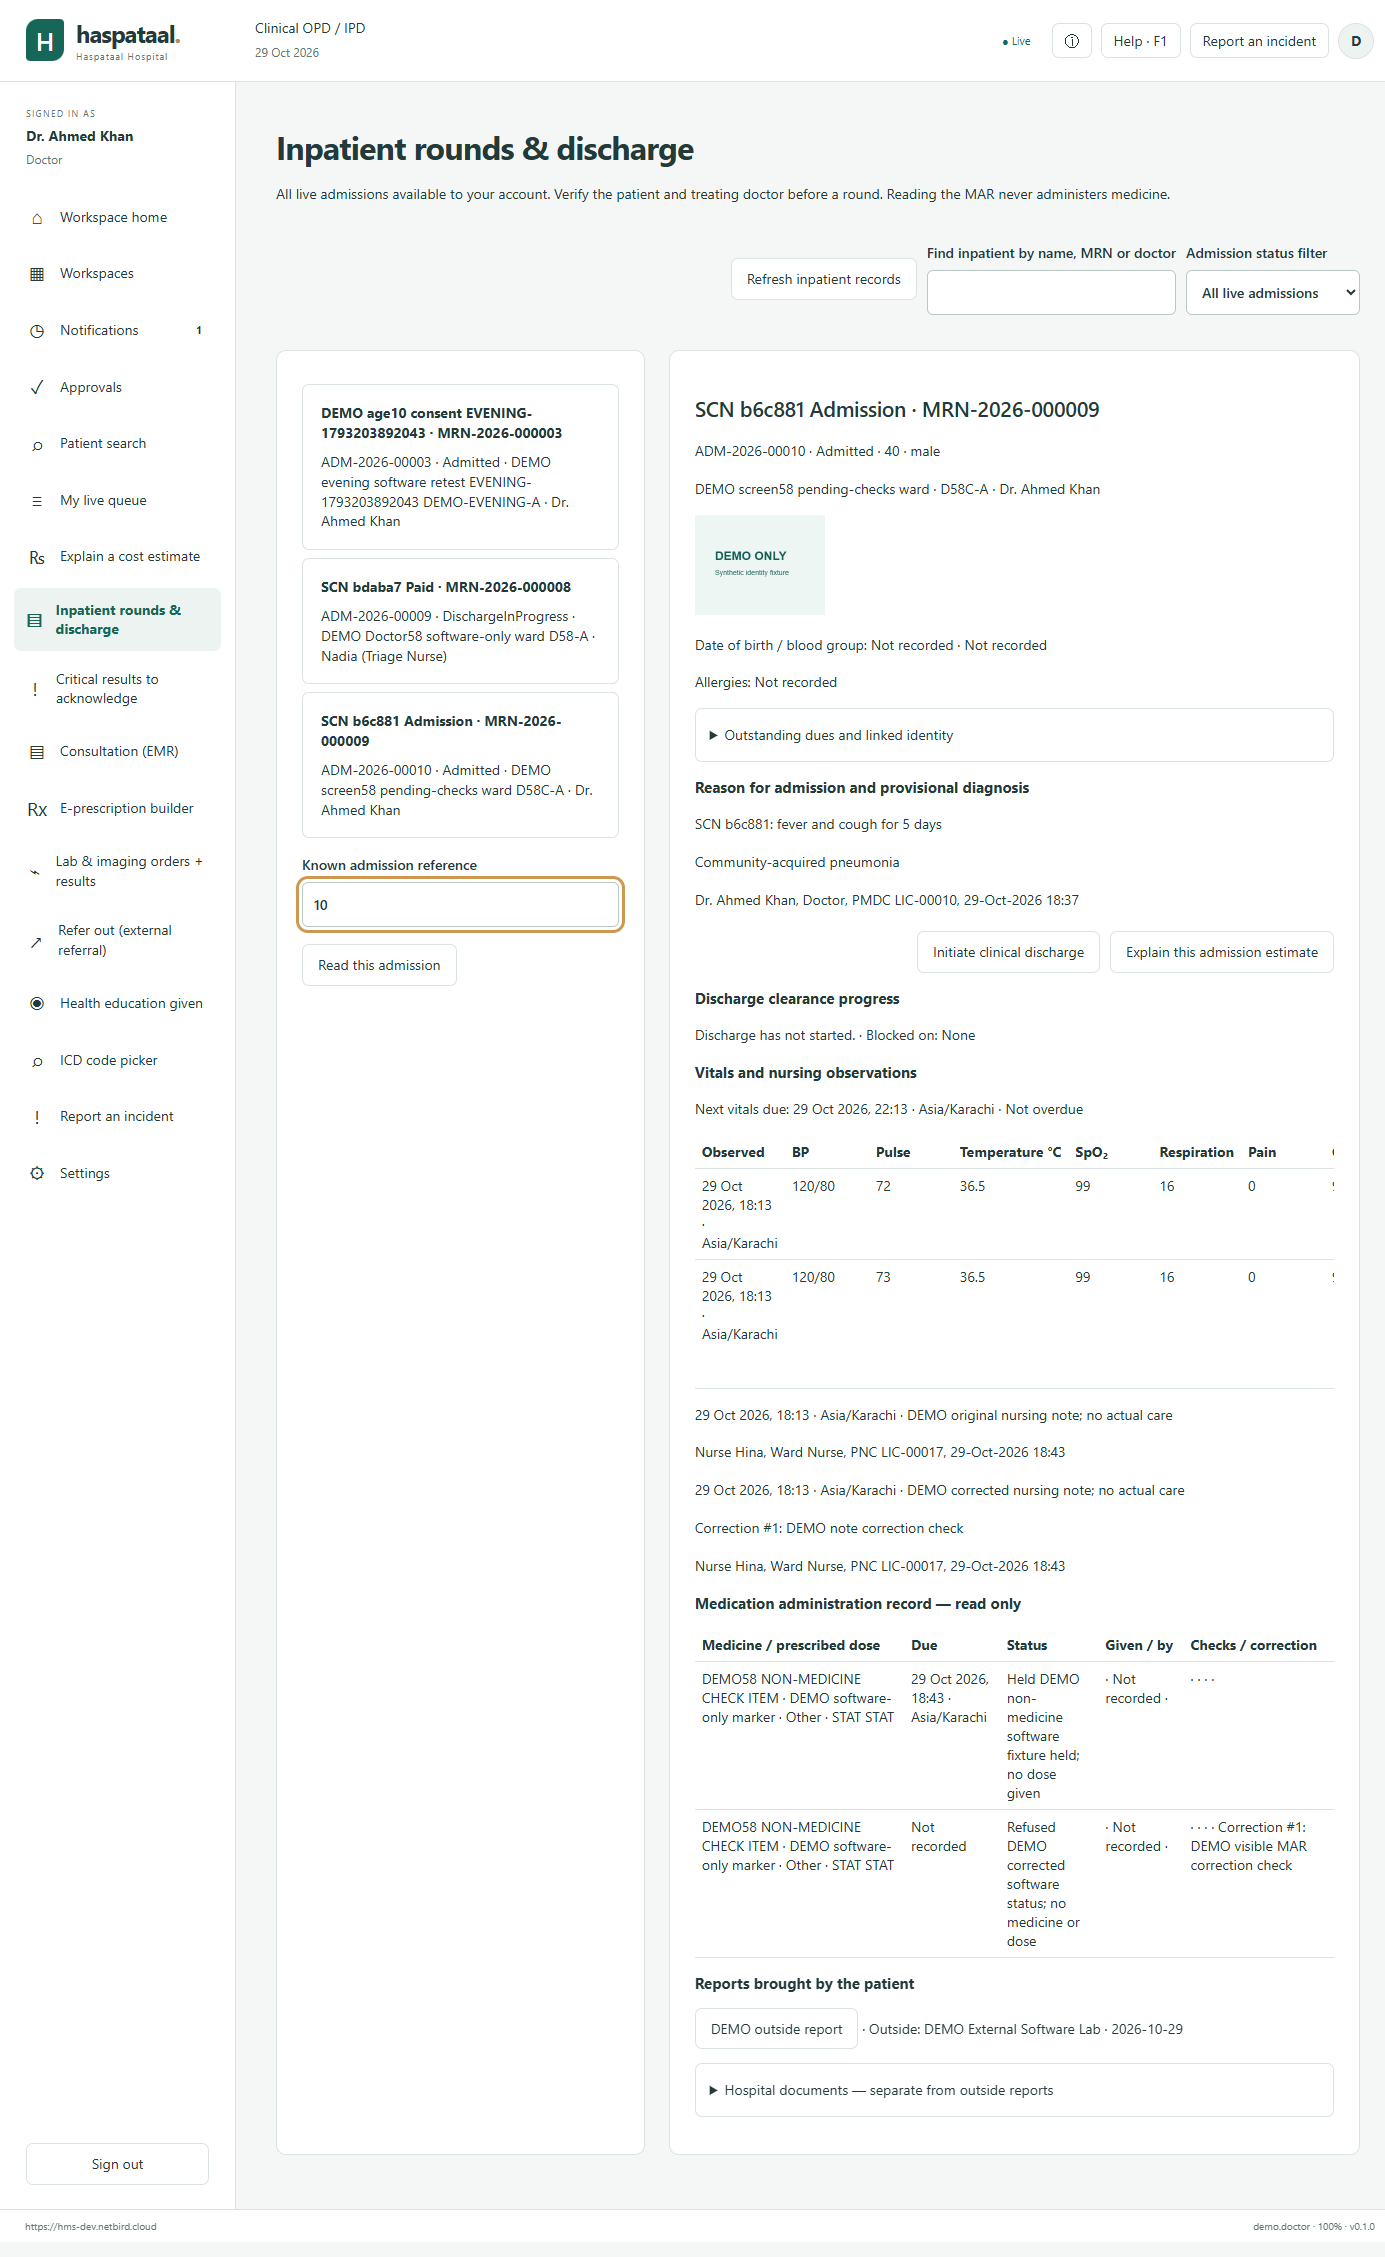
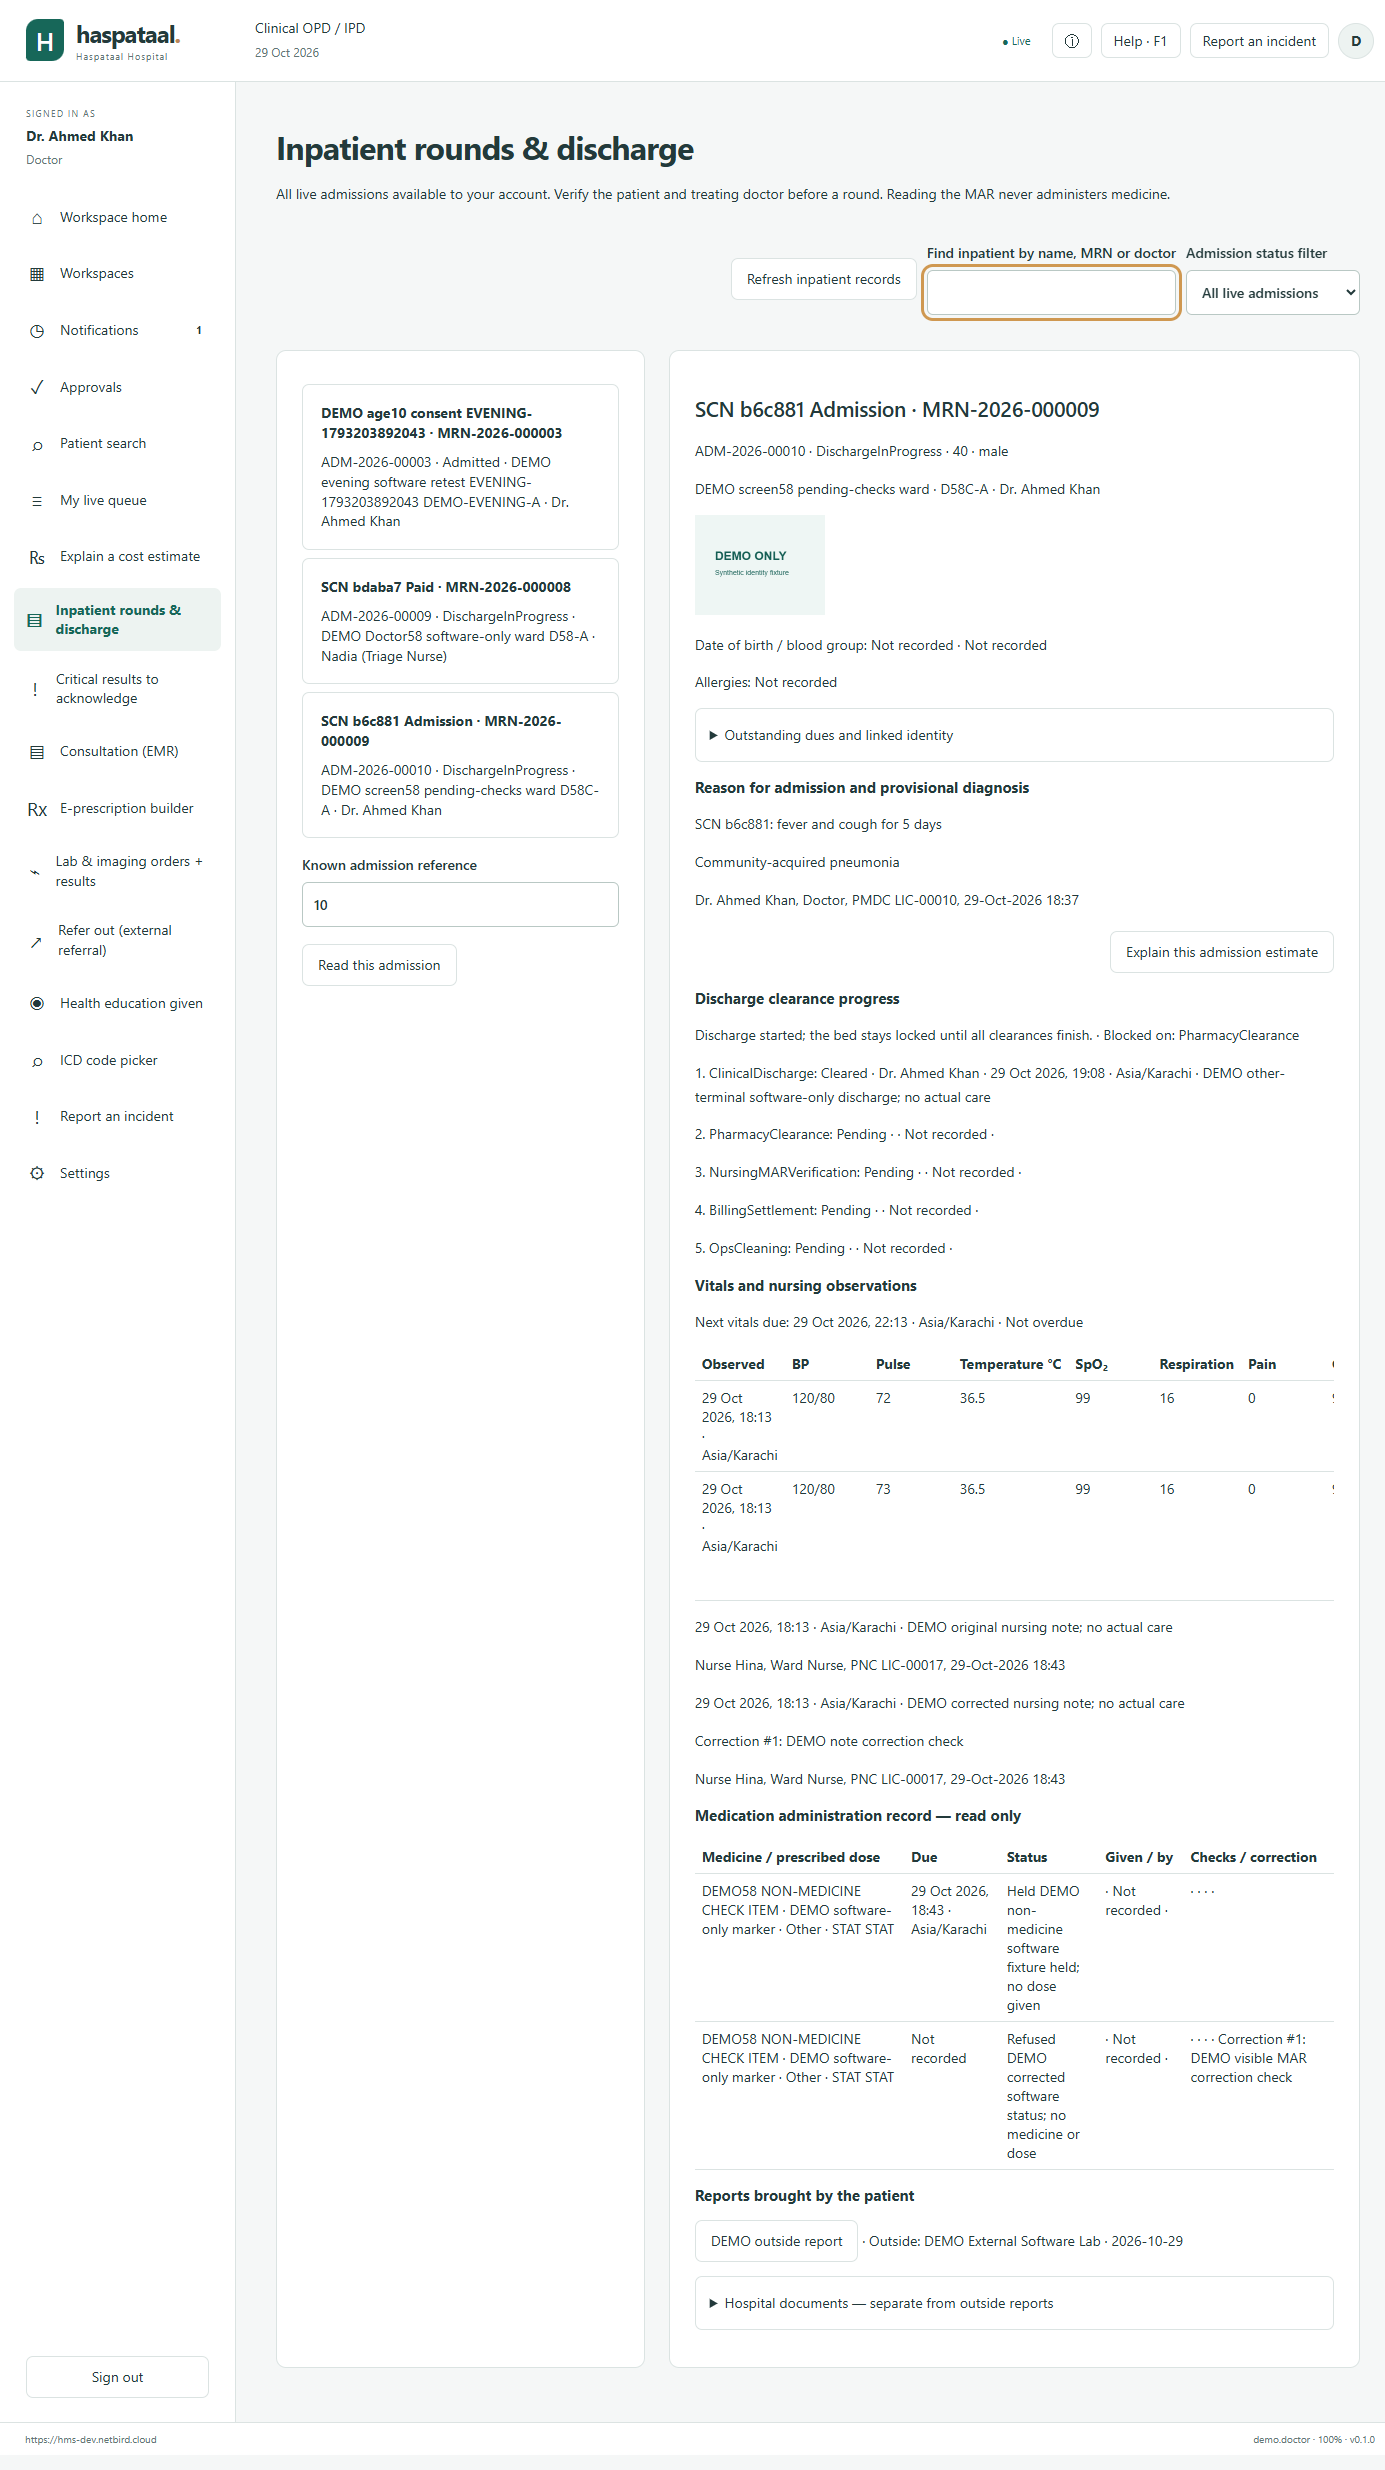
Verify final inpatient populated bilingual read-only review

diff --git a/handoff.md b/handoff.md
@@ -33,3 +33,9 @@ Current review docs/DOCTOR_INPATIENTS_CHECKS_2026-10-29.md; compact evidence + f
 DEV https://hms-dev.netbird.cloud; authorized local config ignored .dev-terminal.json/.codex/config.toml, test profiles and CA. No secrets copied. PowerShell/Node/Electron/bundled PDF tools.
 Nothing running or in-progress locally after the final reporting commit. Screen remains pending external gates; do not advance scope. Next when DEV is stable: final GET-only reviewer with NEW journal; concurrent UI test needs a genuinely new synthetic admission and reconciliation, never replay10discharge. Retest43 only once backend answers/fixes it. Named human owns manual review. Source/tests complete within documented limits; bootstrap/concurrent UI checks remain explicitly pending.
 Manual: new app-created synthetic admission, populated corrections/stamps, photo/outside reports, F1 from fields/review, Urdu/RTL/250%, retained concurrent-refusal note, estimate return and clearance/bed lock. Human alone signs portal review.
+
+Active29Oct request: finish required current checks, otherwise BUILD next screen. This supersedes prior current-screen-only scope. Clean b5e33ad verified. Startup MCP server unchanged; issues41/42/43 status and roadmap being reviewed. Next: final58 GET-only runner with new journal and fresh concurrent fixture if DEV stable, then next eligible screen. No business command running.
+
+Nextscreen confirmed59my_beds, dependencylogin implemented. Contractfetchpartial: batchstalledcancelled, generatedtypes outputread but mustsavefresh. Needfinishendpoint/omittedcontractreads beforeimplementation. Current58 GETonlyreview resultmustinspect. DesignNursecurrentrosteredbeds/shiftidentity/duework/summaryA4/reviewedidempotentcleaning; no laterchartingeditors guessed. No businesswriteyet.
+
+58finalGETonlyreview NOWPASS on index-DJUbSSN8.js, freshcurrent10 only; populatedcorrections/zeropain/clearancestages/no-repeat/nomatch/F1/ENUR/themes250 allpassed, prefsrestoredsignedout, nobusinesswrites. docs/inpatients58-checks/resume-final-read.json. This resolves priorbootstrapcheck;43stillNew nofix, concurrentUItestremainsnotclaimed. Beforewardworkspaceimplementation submitnewq:states only aftersavingtestedcommit; no197/199duplicateclaims.
